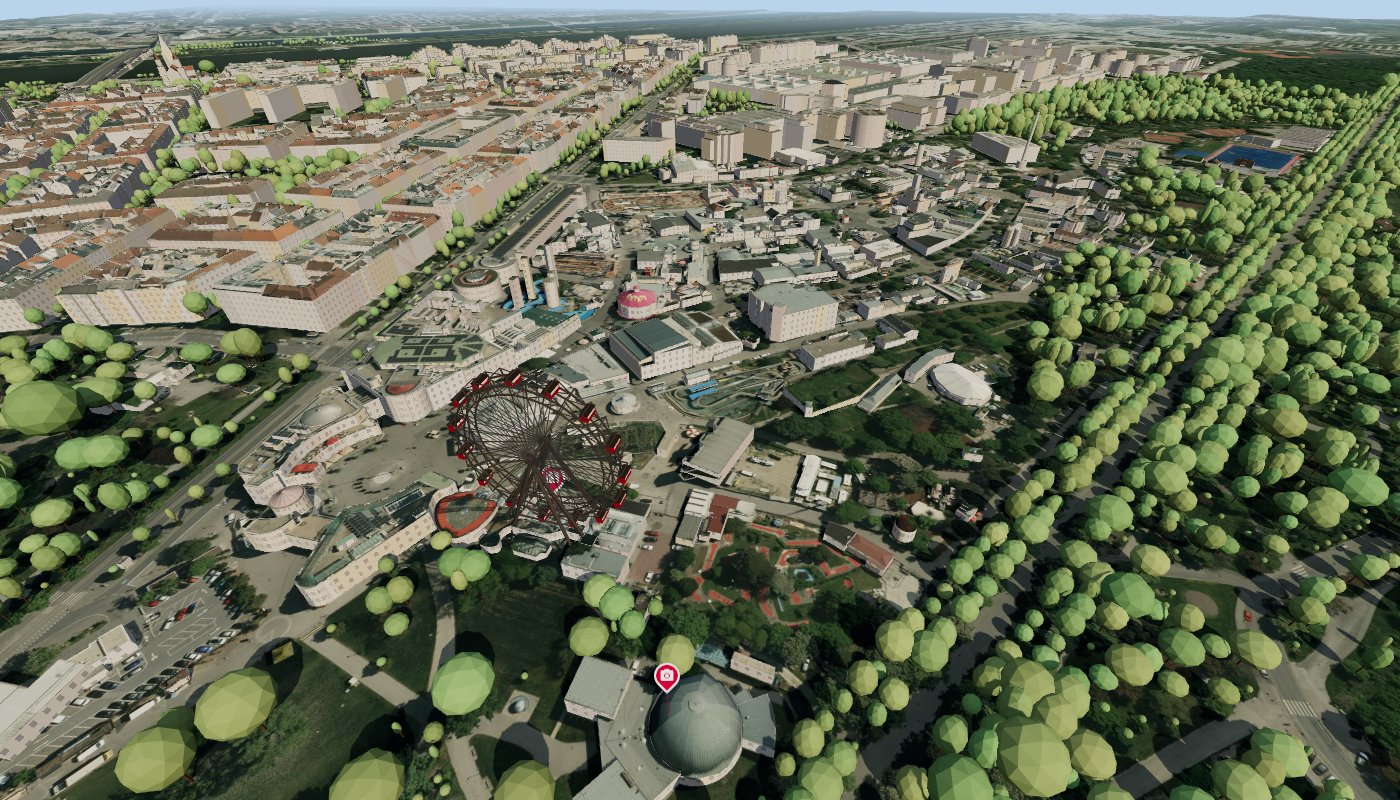
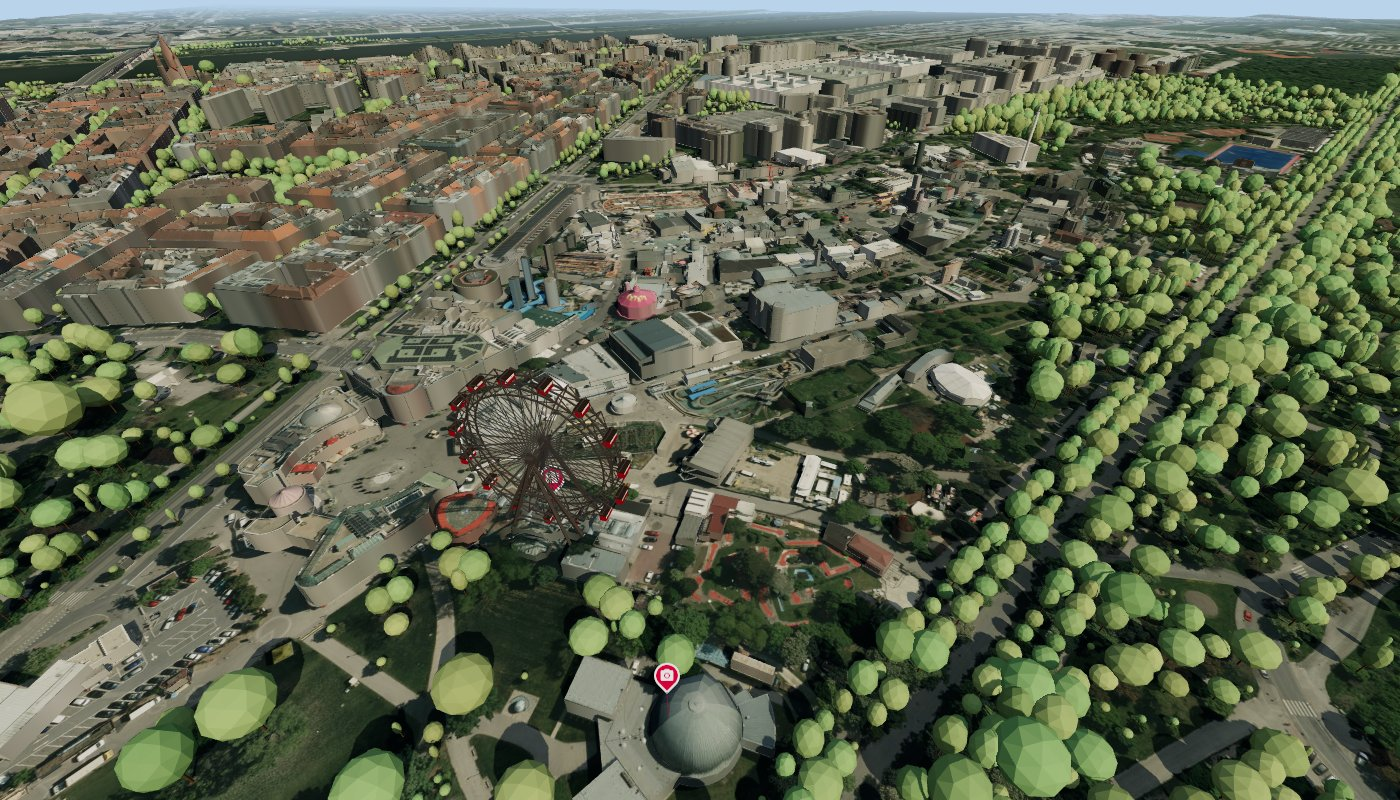
Walls take their colour from the aerial photo instead of fake windows
- per-tile wall material samples a coarse ortho mip (~6 m texels): real surrounding colour, no streaks
- drop the procedural window/plaster shader (landmarks like the Votivkirche got apartment facades)
- PCFShadowMap (PCFSoft was removed in three r186)
- README screenshots updated

diff --git a/src/chunks.js b/src/chunks.js
@@ -17,37 +17,24 @@ function pickable(mesh, kind) {
   return mesh;
 }
 
-// Walls: Viennese plaster tones per facade plane plus a procedural window grid that fades out with distance.
-const facadeMaterial = new THREE.MeshLambertMaterial({ side: THREE.DoubleSide });
-facadeMaterial.onBeforeCompile = (s) => {
-  s.vertexShader = s.vertexShader
-    .replace('#include <common>', '#include <common>\nvarying vec3 vWPos;\nvarying vec3 vWNrm;')
-    .replace('#include <begin_vertex>', '#include <begin_vertex>\nvWPos = (modelMatrix * vec4(position, 1.0)).xyz;\nvWNrm = mat3(modelMatrix) * normal;');
-  s.fragmentShader = s.fragmentShader
-    .replace(
-      '#include <common>',
-      `#include <common>
-varying vec3 vWPos;
-varying vec3 vWNrm;
-float fhash(vec2 p) { return fract(sin(dot(p, vec2(127.1, 311.7))) * 43758.5453); }`
-    )
-    .replace(
-      '#include <color_fragment>',
-      `#include <color_fragment>
-vec2 nh = normalize(vWNrm.xz + 1e-5);
-float along = dot(vWPos.xz, vec2(-nh.y, nh.x));
-float plane = dot(vWPos.xz, nh);
-float h = fhash(vec2(floor(plane * 0.5), floor(along / 60.0)));
-vec3 plaster = h < 0.3 ? vec3(0.86, 0.82, 0.74) : h < 0.5 ? vec3(0.90, 0.80, 0.58) : h < 0.65 ? vec3(0.80, 0.80, 0.78)
-  : h < 0.8 ? vec3(0.88, 0.76, 0.70) : vec3(0.93, 0.91, 0.87);
-plaster *= 0.82;
-vec2 cell = vec2(along / 3.4, vWPos.y / 3.6);
-vec2 f = fract(cell);
-float win = step(0.32, f.x) * step(f.x, 0.68) * step(0.28, f.y) * step(f.y, 0.78);
-float fade = smoothstep(0.12, 0.45, max(fwidth(cell.x), fwidth(cell.y)));
-diffuseColor.rgb = mix(mix(plaster, vec3(0.22, 0.24, 0.27), win * 0.7), plaster * 0.88, fade);`
+// Walls would only see the ortho's edge pixels smeared top to bottom; a coarse mip instead gives each wall the
+// averaged real colour of its surroundings (slightly desaturated, roofs dominate the photo).
+function wallMaterial() {
+  const m = new THREE.MeshLambertMaterial({ color: 0x8a8f86, side: THREE.DoubleSide });
+  m.onBeforeCompile = (s) => {
+    // mip with ~64 texels per tile (~6 m each), whatever zoom is loaded
+    s.fragmentShader = s.fragmentShader.replace(
+      '#include <map_fragment>',
+      `#ifdef USE_MAP
+  vec4 wallSample = textureLod(map, vMapUv, max(0.0, log2(float(textureSize(map, 0).x) / 64.0)));
+  // brighter: the averaged photo includes cast shadows and dark roof parts
+  diffuseColor.rgb *= min(vec3(1.0), 1.35 * mix(vec3(dot(wallSample.rgb, vec3(0.299, 0.587, 0.114))), wallSample.rgb, 0.75));
+#endif`
     );
-};
+  };
+  m.customProgramCacheKey = () => 'wall';
+  return m;
+}
 
 // A chunk is one z16 web-mercator tile (~407 m wide in Vienna).
 export const CZ = 16;
@@ -166,28 +153,24 @@ function clipPoly(poly, axis, v, s) {
  */
 function splitByTile(src, b) {
   const p = src.attributes.position.array;
-  const cells = new Map(); // "dx,dy" -> positions
-  const out = (dx, dy) => {
-    const k = `${dx},${dy}`;
+  const cells = new Map(); // "dx,dy,wall" -> positions
+  const out = (dx, dy, w) => {
+    const k = `${dx},${dy},${w}`;
     let a = cells.get(k);
     if (!a) cells.set(k, (a = []));
     return a;
   };
   const cx = (x) => Math.floor((x - b.xMin) / b.size), cz = (z) => Math.floor((z - b.zMin) / b.size);
-  const walls = [];
   for (let t = 0; t < p.length; t += 9) {
-    // steep faces get the facade material: a top-down photo would only smear into vertical streaks there
+    // steep faces get the wall material of their tile (see wallMaterial)
     const ax = p[t + 3] - p[t], ay = p[t + 4] - p[t + 1], az = p[t + 5] - p[t + 2];
     const bx = p[t + 6] - p[t], by = p[t + 7] - p[t + 1], bz = p[t + 8] - p[t + 2];
     const nx = ay * bz - az * by, ny = az * bx - ax * bz, nz = ax * by - ay * bx;
-    if (Math.abs(ny) < 0.3 * Math.hypot(nx, ny, nz)) {
-      for (let i = 0; i < 9; i++) walls.push(p[t + i]);
-      continue;
-    }
+    const w = Math.abs(ny) < 0.3 * Math.hypot(nx, ny, nz) ? 1 : 0;
     const x0 = cx(Math.min(p[t], p[t + 3], p[t + 6])), x1 = cx(Math.max(p[t], p[t + 3], p[t + 6]));
     const z0 = cz(Math.min(p[t + 2], p[t + 5], p[t + 8])), z1 = cz(Math.max(p[t + 2], p[t + 5], p[t + 8]));
     if (x0 === x1 && z0 === z1) {
-      for (let i = 0; i < 9; i++) out(x0, z0).push(p[t + i]);
+      for (let i = 0; i < 9; i++) out(x0, z0, w).push(p[t + i]);
       continue;
     }
     const tri = [[p[t], p[t + 1], p[t + 2]], [p[t + 3], p[t + 4], p[t + 5]], [p[t + 6], p[t + 7], p[t + 8]]];
@@ -198,10 +181,9 @@ function splitByTile(src, b) {
         poly = clipPoly(poly, 0, xa + b.size, -1);
         poly = clipPoly(poly, 2, za, 1);
         poly = clipPoly(poly, 2, za + b.size, -1);
-        for (let i = 1; i + 1 < poly.length; i++) out(dx, dy).push(...poly[0], ...poly[i], ...poly[i + 1]);
+        for (let i = 1; i + 1 < poly.length; i++) out(dx, dy, w).push(...poly[0], ...poly[i], ...poly[i + 1]);
       }
   }
-  if (walls.length) cells.set('wall', walls);
   let n = 0;
   for (const a of cells.values()) n += a.length / 3;
   const pos = new Float32Array(n * 3), uv = new Float32Array(n * 2), list = [];
@@ -210,15 +192,10 @@ function splitByTile(src, b) {
   for (const [k, a] of cells) {
     g.addGroup(v, a.length / 3, list.length);
     pos.set(a, v * 3);
-    if (k === 'wall') {
-      v += a.length / 3; // facade shader works in world space, uv stays 0
-      list.push(null);
-      continue;
-    }
-    const [dx, dy] = k.split(',').map(Number);
+    const [dx, dy, w] = k.split(',').map(Number);
     const xa = b.xMin + dx * b.size, za = b.zMin + dy * b.size;
     for (let i = 0; i < a.length; i += 3, v++) (uv[v * 2] = (a[i] - xa) / b.size), (uv[v * 2 + 1] = 1 - (a[i + 2] - za) / b.size);
-    list.push([dx, dy]);
+    list.push([dx, dy, w]);
   }
   g.setAttribute('position', new THREE.BufferAttribute(pos, 3));
   g.setAttribute('uv', new THREE.BufferAttribute(uv, 2));
@@ -237,6 +214,7 @@ class Chunk {
     this.abort = new AbortController();
     this.group = new THREE.Group();
     this.material = new THREE.MeshLambertMaterial({ color: 0x8a8f86, side: THREE.DoubleSide });
+    this.wallMaterial = wallMaterial();
     this.textures = new Map(); // zoom -> texture
     this.texLoading = new Set();
     this.prisms = [];
@@ -358,9 +336,11 @@ class Chunk {
     let best = null, bz = -1;
     for (const [z, t] of this.textures) if (z > bz) (bz = z), (best = t);
     if (this.material.map === best) return;
-    this.material.map = best;
-    this.material.color.set(best ? 0xffffff : 0x8a8f86);
-    this.material.needsUpdate = true;
+    for (const m of [this.material, this.wallMaterial]) {
+      m.map = best;
+      m.color.set(best ? 0xffffff : 0x8a8f86);
+      m.needsUpdate = true;
+    }
   }
 
   /**
@@ -370,7 +350,10 @@ class Chunk {
   orthoMesh(geometry) {
     const { geometry: g, cells } = splitByTile(geometry, this.b);
     geometry.dispose();
-    const mats = cells.map((c) => (c ? this.mgr.chunks.get(`${this.x + c[0]},${this.y + c[1]}`)?.material ?? this.material : facadeMaterial));
+    const mats = cells.map(([dx, dy, w]) => {
+      const c = this.mgr.chunks.get(`${this.x + dx},${this.y + dy}`) ?? this;
+      return w ? c.wallMaterial : c.material;
+    });
     return new THREE.Mesh(g, mats);
   }
 
@@ -429,6 +412,7 @@ class Chunk {
     this.ground?.geometry.dispose();
     for (const t of this.textures.values()) t.dispose();
     this.material.dispose();
+    this.wallMaterial.dispose();
   }
 }
 

diff --git a/src/main.js b/src/main.js
@@ -24,7 +24,7 @@ renderer.setSize(window.innerWidth, window.innerHeight);
 renderer.toneMapping = THREE.ACESFilmicToneMapping;
 renderer.toneMappingExposure = 1.0;
 renderer.shadowMap.enabled = true;
-renderer.shadowMap.type = THREE.PCFSoftShadowMap;
+renderer.shadowMap.type = THREE.PCFShadowMap;
 document.body.appendChild(renderer.domElement);
 
 const scene = new THREE.Scene();
